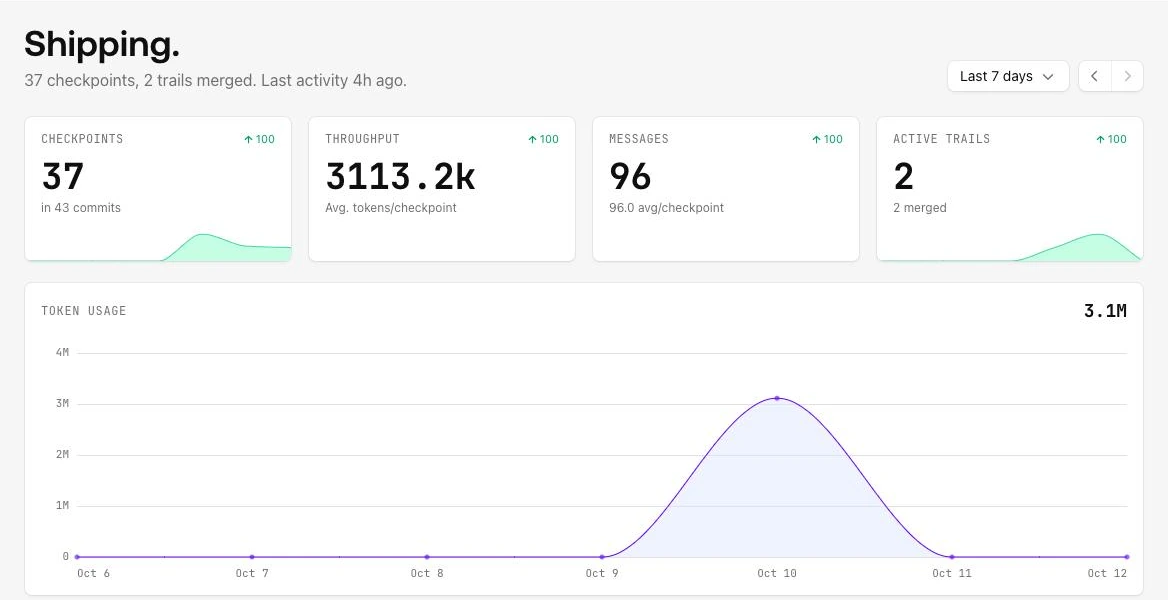
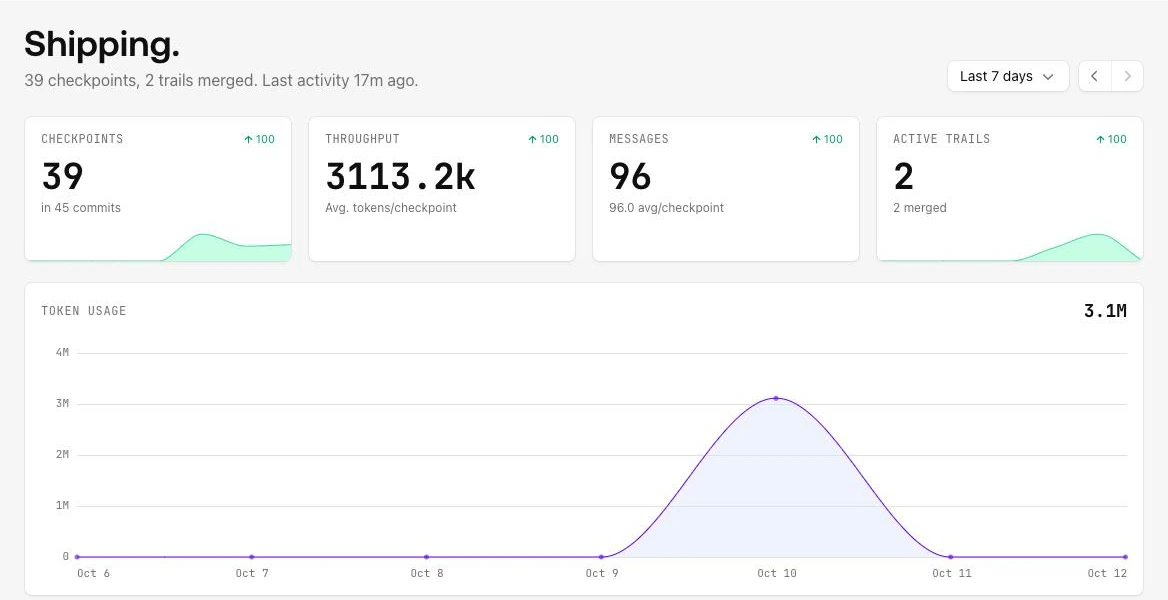
public cfo.ai plan link, latest entire numbers, pricing spelled out on home
Entire-Checkpoint: 01M4J7A2GM3XCY6WDZW1VCH61D

diff --git a/frontend/app/evidence/page.tsx b/frontend/app/evidence/page.tsx
@@ -24,7 +24,7 @@ export default function Evidence() {
         <p className="text-xs font-semibold uppercase tracking-[.16em] text-blue-600">Entire · development provenance</p>
         <h2 className="mt-4 font-display text-3xl font-semibold">Trace the build, too.</h2>
         <p className="mt-4 max-w-3xl text-sm leading-7 text-slate-600">Entire records the development sessions and code checkpoints. The deployed build audited on 11 October references checkpoint <code className="break-all">01M4J7A2GM3XCY6WDZW1VCH61D</code>. This is build history; payment execution evidence lives in the agent traces above.</p>
-        <div className="mt-5 flex flex-wrap gap-5 text-sm font-medium text-blue-600"><a href="https://entire.io/gh/prabhat-gp/neathack-upi/trails/1" target="_blank" rel="noreferrer">Open Entire trail ↗</a><a href="https://github.com/prabhat-gp/neathack-upi/commit/0d02e00d300927a023c4f2b99a9c9014d4b4fd59" target="_blank" rel="noreferrer">Inspect audited build commit ↗</a><a href="https://github.com/prabhat-gp/neathack-upi/commits/main" target="_blank" rel="noreferrer">Current production history ↗</a></div>
+        <div className="mt-5 flex flex-wrap gap-5 text-sm font-medium text-blue-600"><a href="https://entire.io/gh/prabhat-gp/neathack-upi/commit/b30b9d27d1cb7f8a792b10579503b0f7582c7d10" target="_blank" rel="noreferrer">Open the neatlogs fix on Entire ↗</a><a href="https://github.com/prabhat-gp/neathack-upi/commit/0d02e00d300927a023c4f2b99a9c9014d4b4fd59" target="_blank" rel="noreferrer">Inspect audited build commit ↗</a><a href="https://github.com/prabhat-gp/neathack-upi/commits/main" target="_blank" rel="noreferrer">Current production history ↗</a></div>
       </section>
       <section id="crustdata" className="mt-10">
         <div className="flex flex-wrap items-center justify-between gap-4"><p className="text-xs font-semibold uppercase tracking-[.16em] text-blue-600">Captured API evidence · Crustdata</p><span className="rounded-full bg-emerald-100 px-3 py-1 text-xs font-medium text-emerald-800">API call verified</span></div>
@@ -37,7 +37,7 @@ export default function Evidence() {
           <p className="mt-6 rounded-xl bg-slate-50 p-3 text-xs leading-6 text-slate-600">{['Use as an enterprise research candidate. Company size supports planning for a formal pilot and procurement process.','Two records matched. Review the bank and people-page candidates before using the record for sizing.','The returned entity is an ATM listing. Excluded from bank-level sizing until its parent is verified.'][index]}</p>
         </article>)}</div>
         <div className="mt-6 rounded-2xl bg-blue-50 p-6"><h2 className="font-semibold text-blue-950">Decision carried into cfo.ai</h2><p className="mt-2 text-sm leading-7 text-slate-600">Model a limited paid bank pilot with a multi-month sales cycle. Keep sales timing and case volume as assumptions. These companies are research candidates, not customers; a missing or ambiguous match is not a fraud signal.</p></div>
-        <div className="mt-6 flex flex-wrap gap-5 text-sm font-medium text-blue-600"><a href="/proof/data/crustdata-research.json" target="_blank" rel="noreferrer">Inspect the saved API result ↗</a><a href="https://app.cfo.ai/upi-dispute-1a09ce1c" target="_blank" rel="noreferrer">Open cfo.ai workspace ↗</a></div>
+        <div className="mt-6 flex flex-wrap gap-5 text-sm font-medium text-blue-600"><a href="/proof/data/crustdata-research.json" target="_blank" rel="noreferrer">Inspect the saved API result ↗</a><a href="https://cfo.ai/s/CRMsGa9CnYduMy2H" target="_blank" rel="noreferrer">Open the cfo.ai plan ↗</a></div>
         <p className="mt-8 text-xs text-slate-500">This is DisputePro’s rendering of the captured Crustdata response, not a screenshot of the Crustdata portal.</p>
       </section>
 
@@ -46,13 +46,13 @@ export default function Evidence() {
         <h2 className="mt-4 font-display text-4xl font-semibold tracking-tight">A business plan you can inspect.</h2>
         <p className="mt-4 max-w-3xl text-sm leading-7 text-slate-600">Twelve monthly periods, editable assumptions and three scenarios in the upi-dispute workspace. These are planning outputs, not actual revenue. The model includes a one-month collection delay and keeps negative cash visible. Base agent cost is ₹10 per case, measured on the deployed desk ($0.103 with prompt caching), up from an ₹8 guess.</p>
         <p className="mt-4 text-sm text-slate-500">New payment runs do not recalculate this business forecast or rerun Crustdata research. These are separately dated sponsor artifacts.</p>
-        <a href="https://app.cfo.ai/s/p_AQGApQYkYTczYzQ3ZDQtNzhhOS00ZjJhLWEwZDAtNWE4YzgwZDU0NmE3DWRlZmF1bHRfbGF5ZXI" target="_blank" rel="noreferrer" className="mt-5 inline-block text-sm font-medium text-blue-600">Open the native cfo.ai business plan ↗</a>
+        <a href="https://cfo.ai/s/CRMsGa9CnYduMy2H" target="_blank" rel="noreferrer" className="mt-5 inline-block text-sm font-medium text-blue-600">Open the cfo.ai business plan, no sign-in needed ↗</a>
         <div className="mt-6 grid gap-5 md:grid-cols-3">{Object.entries(forecast).map(([name, result]) => {
           const cash = result.rows.find(row => row.display_name === 'Ending cash INR')!.values
           const revenue = result.rows.find(row => row.display_name === 'Total revenue INR')!.values
           const banks = result.rows.find(row => row.display_name === 'Active banks')!.values
           const firstGap = cash.findIndex(value => value !== null && value < 0)
-          return <article key={name} className="rounded-2xl border border-slate-200 bg-white p-6"><h3 className="text-lg font-semibold">{name}</h3><dl className="mt-5 space-y-4 text-sm"><div><dt className="text-slate-500">12-month revenue</dt><dd className="mt-1 text-xl font-semibold">₹{((revenue.reduce<number>((sum, value) => sum + (value || 0), 0)) / 100000).toFixed(2)} lakh</dd></div><div><dt className="text-slate-500">Banks at September 2027</dt><dd className="mt-1 font-semibold">{banks[banks.length - 1]}</dd></div><div><dt className="text-slate-500">Cash first turns negative</dt><dd className="mt-1 font-semibold text-amber-800">{firstGap < 0 ? 'Outside this horizon' : result.periods[firstGap]}</dd></div><div><dt className="text-slate-500">September funding gap</dt><dd className="mt-1 font-semibold">₹{(Math.max(0, -(cash[cash.length - 1] || 0)) / 100000).toFixed(2)} lakh</dd></div></dl><a href={result.table.url} target="_blank" rel="noreferrer" className="mt-6 inline-block text-sm font-medium text-blue-600">Inspect in cfo.ai ↗</a></article>
+          return <article key={name} className="rounded-2xl border border-slate-200 bg-white p-6"><h3 className="text-lg font-semibold">{name}</h3><dl className="mt-5 space-y-4 text-sm"><div><dt className="text-slate-500">12-month revenue</dt><dd className="mt-1 text-xl font-semibold">₹{((revenue.reduce<number>((sum, value) => sum + (value || 0), 0)) / 100000).toFixed(2)} lakh</dd></div><div><dt className="text-slate-500">Banks at September 2027</dt><dd className="mt-1 font-semibold">{banks[banks.length - 1]}</dd></div><div><dt className="text-slate-500">Cash first turns negative</dt><dd className="mt-1 font-semibold text-amber-800">{firstGap < 0 ? 'Outside this horizon' : result.periods[firstGap]}</dd></div><div><dt className="text-slate-500">September funding gap</dt><dd className="mt-1 font-semibold">₹{(Math.max(0, -(cash[cash.length - 1] || 0)) / 100000).toFixed(2)} lakh</dd></div></dl><a href="https://cfo.ai/s/CRMsGa9CnYduMy2H" target="_blank" rel="noreferrer" className="mt-6 inline-block text-sm font-medium text-blue-600">Open in cfo.ai ↗</a></article>
         })}</div>
         <p className="mt-6 rounded-xl bg-blue-50 p-5 text-sm leading-7 text-slate-600">Decision: validate a paid pilot and reduce fixed burn before scaling the team. Even the upside assumptions require additional funding within the modeled year. The starting ₹50 lakh is an assumption, not an observed bank balance.</p>
         <a href="/proof/data/cfo-verified-forecast.json" target="_blank" rel="noreferrer" className="mt-5 inline-block text-sm font-medium text-blue-600">Inspect cfo.ai readback and formulas ↗</a>

diff --git a/frontend/components/home/SponsorShowcase.tsx b/frontend/components/home/SponsorShowcase.tsx
@@ -35,13 +35,13 @@ const SPONSORS: Sponsor[] = [
     id: 'entire', name: 'Entire', mark: 'E', role: 'Build provenance', source: 'entire.io',
     headline: 'Entire links every change to the AI session that wrote it.',
     stats: [
-      ['37', 'checkpoints across 43 commits, each tied to the Codex or Claude Code session behind it.'],
+      ['39', 'checkpoints across 45 commits by the evening of 12 October, each tied to its Codex or Claude Code session.'],
       ['3.1M', 'tokens of AI build work recorded, from the first sandbox bank to the final fix.'],
       ['b30b9d2', 'the neatlogs fix, traced to its 2 sessions: +20 lines of code and +13 of tests.'],
     ],
     shots: [
       { src: '/proof/sponsors/entire-commit.webp', caption: 'The prompt-caching fix on Entire: its checkpoint, the Claude Code and Codex sessions behind it, and what it changed.' },
-      { src: '/proof/sponsors/entire-analytics.webp', caption: 'Entire Analytics for the repository: 37 checkpoints in 43 commits and 3.1M tokens of AI work.' },
+      { src: '/proof/sponsors/entire-analytics.webp', caption: 'Entire Analytics for the repository on 12 October: 39 checkpoints in 45 commits and 3.1M tokens of AI work.' },
     ],
     cta: { href: `https://entire.io/gh/prabhat-gp/neathack-upi/commit/${FIX_COMMIT}`, label: 'Open the fix on Entire' },
   },
@@ -50,14 +50,15 @@ const SPONSORS: Sponsor[] = [
     headline: 'cfo.ai turned our measured agent cost into a 12-month plan for banks.',
     stats: [
       ['₹10', 'agent cost per case in the base plan, from the live desk ($0.103), not a guess.'],
-      ['₹23.25 lakh', 'revenue in the first 12 months, reaching 3 banks by September 2027.'],
+      ['₹23.25 lakh', 'revenue in the first 12 months from 3 banks, at ₹1 lakh a month with 1,000 cases included.'],
       ['60.4%', 'recurring gross margin, with the ₹32 lakh funding gap shown rather than hidden.'],
     ],
     shots: [
       { src: '/proof/sponsors/cfo-plan.webp', caption: 'The DisputePro Business Plan in cfo.ai: revenue, banks and cash, October 2026 to September 2027.' },
       { src: '/proof/sponsors/cfo-measured.webp', caption: 'The plan records the 12 October cost update: Claude Sonnet with prompt caching, $0.103 a case.' },
     ],
-    cta: { href: '/evidence#cfo', label: 'Read the forecast' },
+    cta: { href: 'https://cfo.ai/s/CRMsGa9CnYduMy2H', label: 'Open the plan in cfo.ai' },
+    more: { href: '/evidence#cfo', label: 'Read the forecast' },
     note: 'Forecast values are planning assumptions, not revenue.',
   },
   {

diff --git a/frontend/app/page.tsx b/frontend/app/page.tsx
@@ -22,8 +22,8 @@ const PROOF_ROWS = [
   ['Live', 'The agents resolve real cases', 'T02 resolved on the deployed desk in 37.7 s.', 'Open the bank desk', '/console'],
   ['Screenshot', 'neatlogs found a real incident', '90 model calls over 100,000 tokens, traced to our Codex loop.', 'The investigation', '/proof/sponsors/neatlogs-investigation.webp'],
   ['Public', 'We shipped the fix neatlogs suggested', 'Prompt caching with a test: $0.132 down to $0.103 a case.', 'b30b9d2', `${GITHUB}/commit/${FIX_COMMIT}`],
-  ['Public', 'Entire recorded the build', '37 checkpoints across 43 commits, linked to their sessions.', 'The fix on Entire', `https://entire.io/gh/prabhat-gp/neathack-upi/commit/${FIX_COMMIT}`],
-  ['Saved', 'cfo.ai priced the business', 'The base plan runs on the measured ₹10 a case.', 'The forecast', '/evidence#cfo'],
+  ['Public', 'Entire recorded the build', '39 checkpoints across 45 commits, linked to their sessions.', 'The fix on Entire', `https://entire.io/gh/prabhat-gp/neathack-upi/commit/${FIX_COMMIT}`],
+  ['Public', 'cfo.ai priced the business', '₹1 lakh a month per bank with 1,000 cases included, on the measured ₹10 a case.', 'The plan in cfo.ai', 'https://cfo.ai/s/CRMsGa9CnYduMy2H'],
   ['Saved', 'Crustdata picked the first bank', 'AU Small Finance Bank, 10,001+ employees.', 'The API results', '/evidence#crustdata'],
   ['Public', 'Tested, not just demoed', '30 backend tests: approvals, duplicates, policy before money moves.', 'The tests', `${GITHUB}/tree/main/backend/tests`],
   ['Public', 'Built at neatHack', 'First commit 10 October, 11:18 IST. All of the code is public.', 'aa8f7b5', `${GITHUB}/commit/aa8f7b5`],
